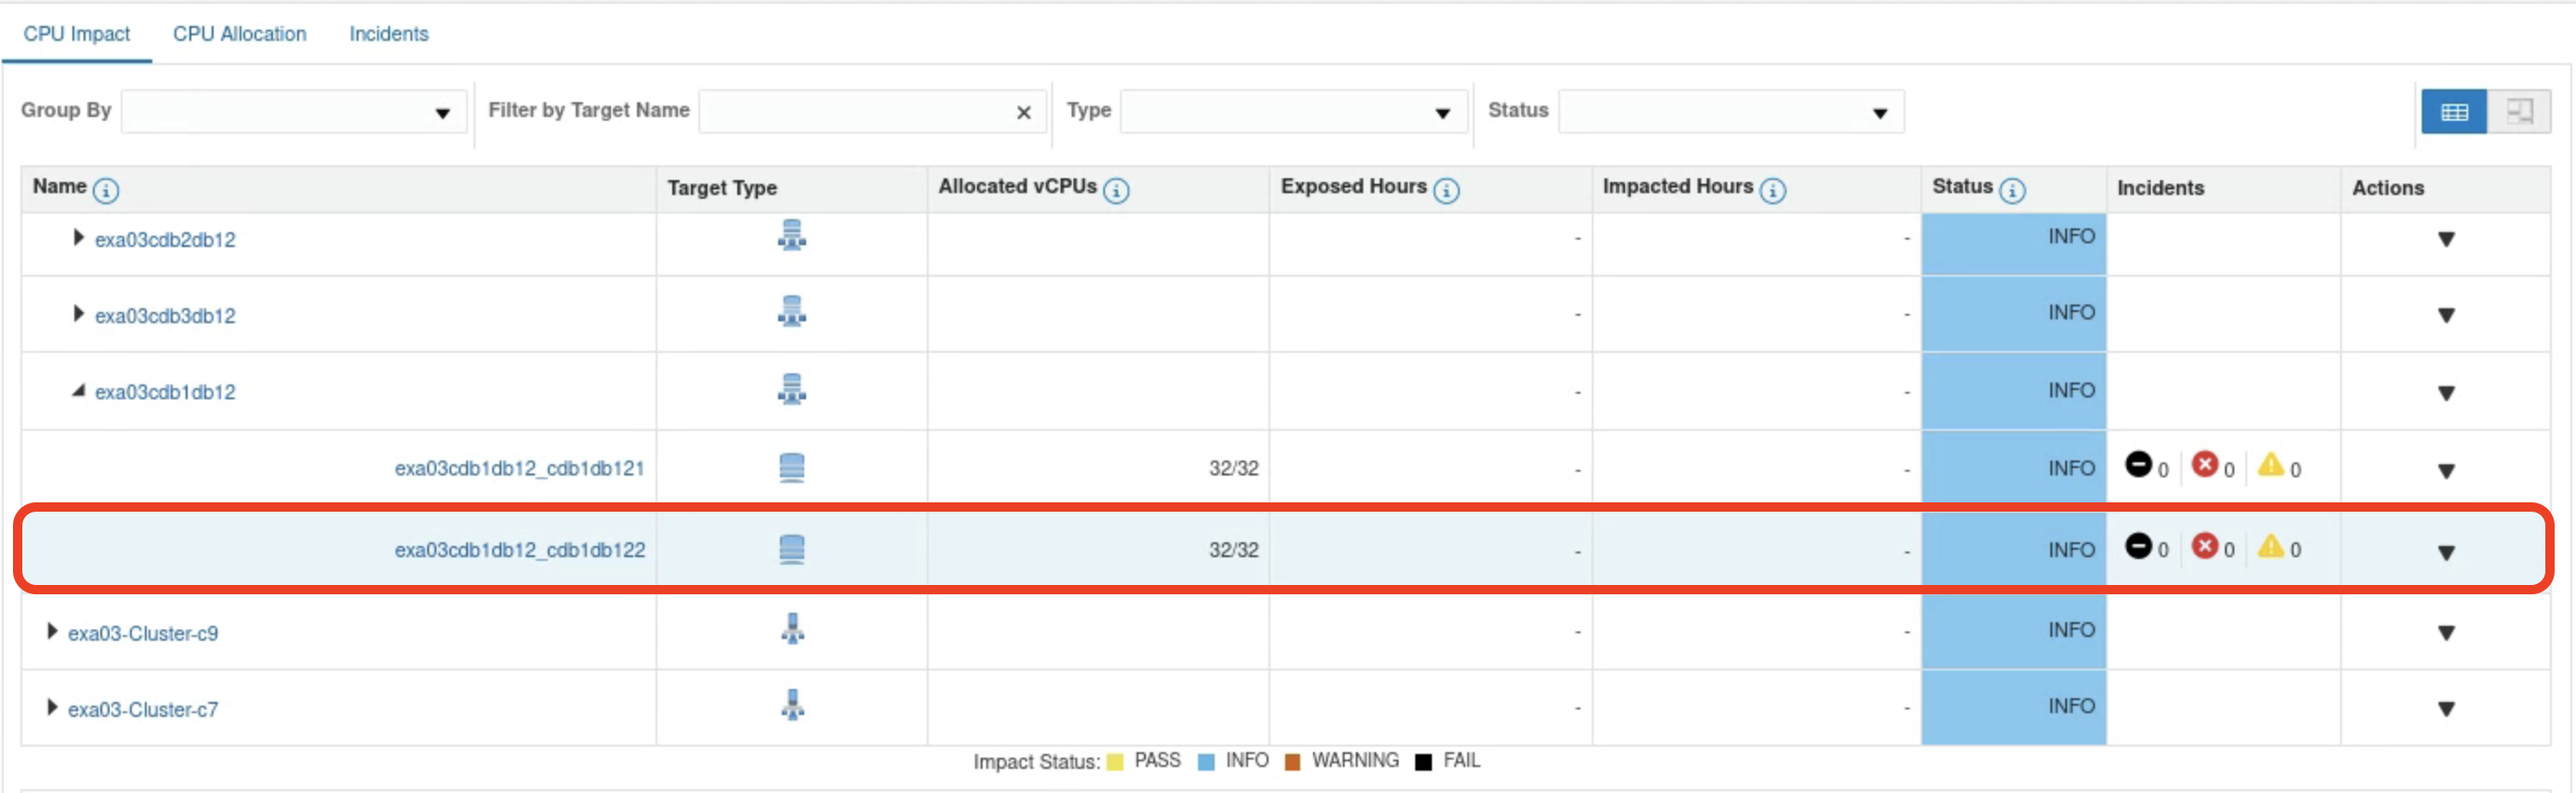
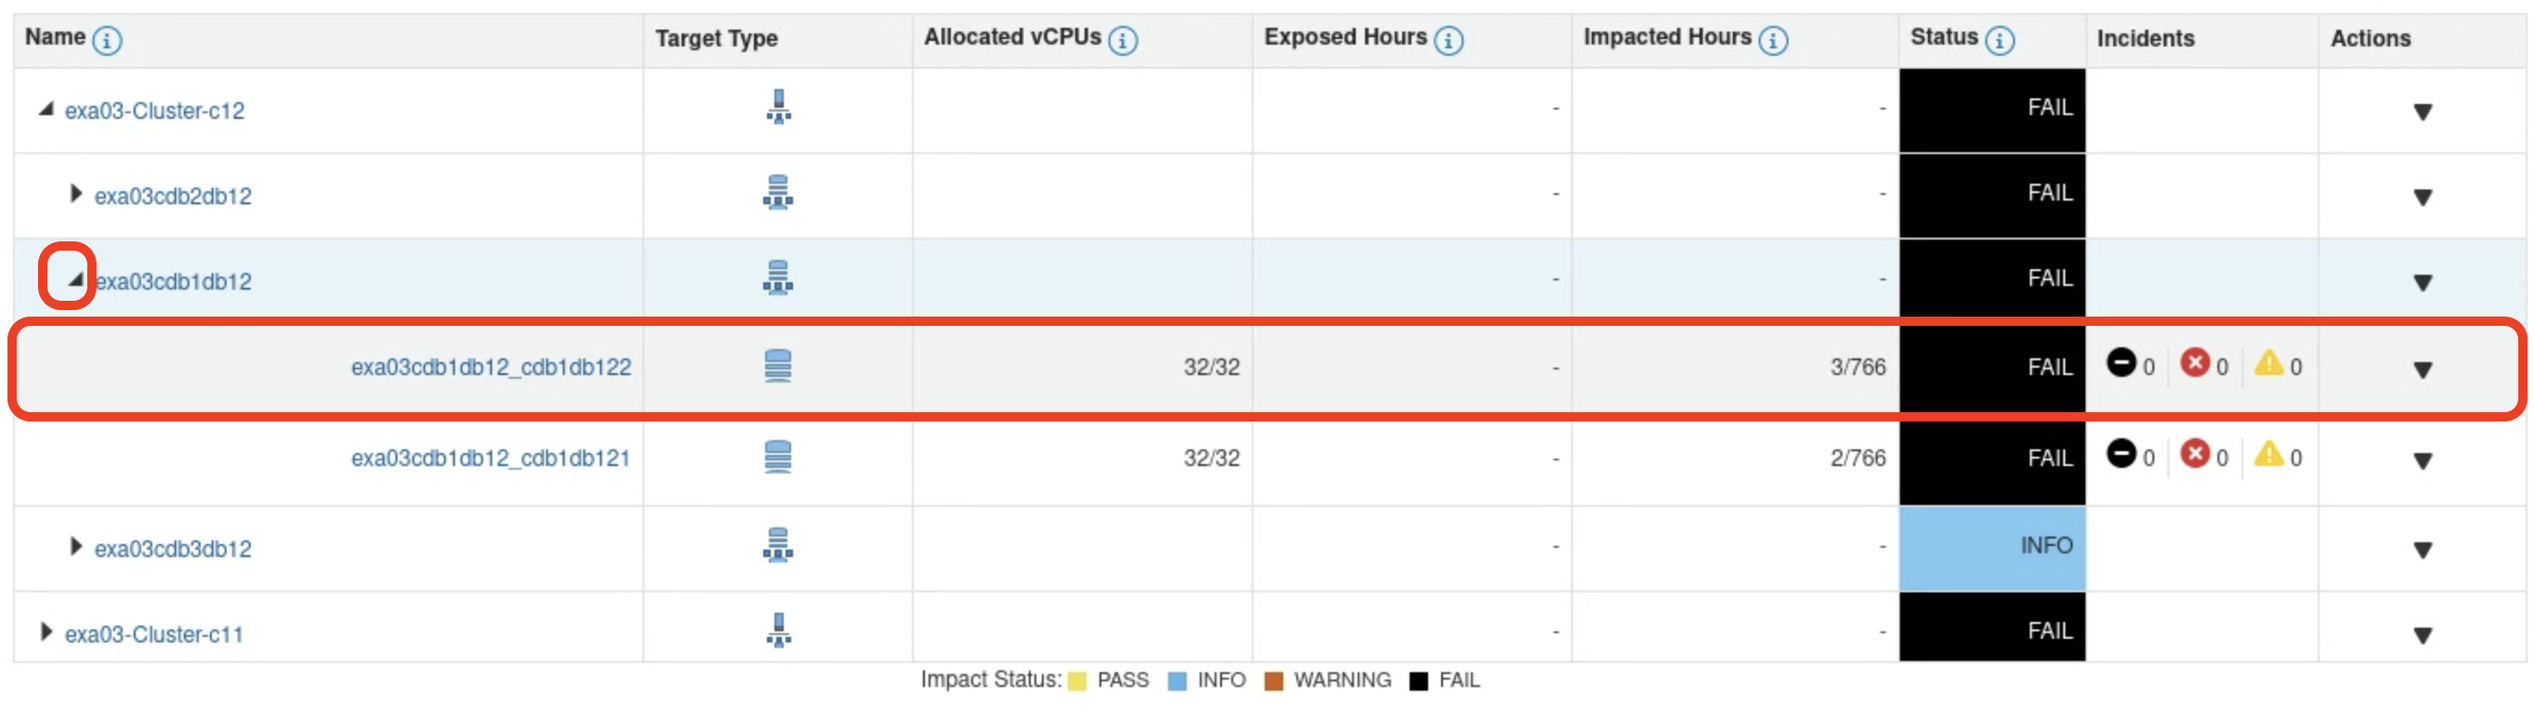
Exadata Management Pack Part10
Exadata Management Pack Part10

diff --git a/enterprise-manager/em24ai/em-exadata-mgmt/ahfmanagement/ahfmanagement.md b/enterprise-manager/em24ai/em-exadata-mgmt/ahfmanagement/ahfmanagement.md
@@ -17,9 +17,7 @@ Autonomous Health Framework (AHF) is Oracle’s diagnostic and health management
 - Explore how to manage AHF across the fleet
 - Learn how to run Exachk compliance checks across systems
 
-## Task 1: Explore AHF Management 
-
-Identify cluster databases whose performance is potentially impacted by other databases or other operating system processes.
+## Task 1: Execute AHF Command at Fleet Level
 
 1. Log into Enterprise Manager using the credentials **sysman/Cloud2025**. 
 
@@ -33,22 +31,31 @@ Identify cluster databases whose performance is potentially impacted by other da
 
     ![Enterprise Manager menu icon](images/ahfnavigation.png " ")
 
-4. Explore **Engineered Systems Tab**
+    Opens a new tab with AHF Administration page. 
 
-   Engineered Systems tab presents an overview that can be used to determine whether AHF is configured on Engineered System targets according to Oracle-recommended standards.
+4. Explore **Engineered Systems Tab** in the AHF Administration page. 
 
-   - **Total Engineered Systems** – Number of monitored systems, with breakdown of management pack enabled/disabled.
-   - **AHF Upgrade Status** – Current upgrade status across all systems.
-   - **AHF Service Status** – Enablement status of TFA and Exachk services.
-   - **AHF Configurations** – Count of systems with auto-upgrade and autorun turned on or off.
+    Engineered Systems tab presents an overview that can be used to determine whether AHF is configured on Engineered System targets according to Oracle-recommended standards.
+
+    - **Total Engineered Systems** – Number of monitored systems, with breakdown of management pack enabled/disabled.
+    - **AHF Upgrade Status** – Current upgrade status across all systems.
+    - **AHF Service Status** – Enablement status of TFA and Exachk services.
+    - **AHF Configurations** – Count of systems with auto-upgrade and autorun turned on or off.
 
     ![AHF Overview](images/ahfoverview.png " ")
 
-    Expand the **DB Machine exa03.rsthybrid.oracle.com** and check the status of AHF, AHF version, Exachk and TFA service status for its virtual nodes.
+    Expand the **DB Machine exa03.rsthybrid.oracle.com** and check the status of AHF, AHF version, Exachk and TFA service status for its nodes.
 
     ![Expand the view](images/expandview.png " ")
 
-5. Select the **DB Machine exa03.rsthybrid.oracle.com** and click on **Actions**
+5. Now select a cluster node to **execute AHF Commands**
+
+    **DB Machine exa03.rsthybrid.oracle.com** contains a total of 12 clusters and is a shared environment. Please identify the cluster assigned to you during this hands-on session and use it to execute the AHF command.
+
+    Here we are showing the flow using the cluster **ex03-Cluster-c6**
+
+    Select the cluster **ex03-Cluster-c6** & click on **Actions**
+    ![Select the cluster](images/actionsbutton.png " ")
 
      Enterprise Manager provides the below actions to manage AHF. 
     - Upgrade AHF 
@@ -57,9 +64,47 @@ Identify cluster databases whose performance is potentially impacted by other da
     - Schedule Exachk Autorun
     - Enable AHF Metrics
 
-    ![Supported actions](images/actions.png " ")
+    ![Check actions available](images/actions.png " ")
 
-6. Click on **AHF Management Jobs** tab
+6. Click on **Execute AHF Commands**
+
+    ![Execute AHF](images/executeahf.png " ")
+
+7. Select command **ahfctl** and **Other**
+
+    Enterprise Manager allows to run these command types
+    - ahfctl : command-line interface to manage AHF
+    - exachk : configuration and best-practice validation tool for Engineered Systems
+    - tfctl  : automates collection and analysis of diagnostic logs & trace files
+
+    ![Execute AHF](images/ahfctlcommand.png " ")
+
+8. Copy the **ahfctl command** provided and paste it in **Command to Execute** field
+
+    ```
+    <copy>
+    ahfctl statusahf -tfa -json
+    </copy>
+    ```
+
+    ![Execute AHF command](images/ahfctlexecute.png " ")
+
+9. Select the named credential **EXA\_HOST\_ROOT** and click **OK**
+
+    ![Open Credential Selector](images/credselector.png " ")
+    ![Select the named credential](images/credselected.png " ")
+    ![Selected the named credential](images/credselectedok.png " ")
+
+
+10. Click **Submit** to submit the command execution procedure
+    ![Click on Submit](images/submit.png " ")
+
+11. Copy the **Job Id** & Click on **Close** 
+    ![Job submitted](images/jobsubmitted.png " ")
+
+## Task 2: Analyze AHF Command Execution Job Status
+
+1. Click on **AHF Management Jobs** tab
 
     AHF Management Jobs provides a summary of all the Oracle Enterprise Manager AHF management jobs run across all Engineered System hosts.
 
@@ -67,6 +112,46 @@ Identify cluster databases whose performance is potentially impacted by other da
     - Table view provides very detailed view of each job that have been run
 
     ![Job Status](images/ahfjobs.png " ")
+
+2. Filter the jobs based on the job id
+
+    Click on **filter** icon
+
+    ![Job filters](images/jobfilters.png " ")
+
+    Paste the **Job ID** copied from Task 1 in the field of Job ID.
+
+    ![Job ID Filter](images/jobidfilter.png " ")
+
+    Scroll down & click on **Apply**
+
+    ![Apply Job filter](images/filterapply.png " ")
+
+    Shows jobs that matches the Job ID provided.
+
+    ![Show filtered data](images/filteredjobs.png " ")
+
+3. Click on the job that is filtered using the job id to view the job submitted to execute the **AHF Command**
+
+    ![Click on Job Id](images/clickonjobid.png " ")
+
+    A procedure activity opens in a new tab.
+
+4. Click on the **Expand All**  to view all the steps performed in the job execution
+
+    ![Expand all steps](images/expandall.png " ")
+
+5. Select **Summary** to review the job execution summary and status
+
+    In the cluster **ex03-Cluster-c6** selected we have two nodes and the AHF command has been executed on both.
+    This feature helps running ahf commands at scale and analyzing its output within Enterprise Manager. 
+
+    ![Job Summary](images/jobsummary.png " ")
+
+6. Select **Run Command** under one of the node to review command output
+
+    ![Command Output](images/commandoutput.png " ")
+
 
 ## Learn More
 

diff --git a/enterprise-manager/em24ai/em-exadata-mgmt/dbimpactadvisor/dbimpactadvisor.md b/enterprise-manager/em24ai/em-exadata-mgmt/dbimpactadvisor/dbimpactadvisor.md
@@ -46,7 +46,7 @@ Identify cluster databases whose performance is potentially impacted by other da
 
     2. Pie charts show the summary of the number of clusters, cluster databases, database instances, and hosts
 
-        We can see that there are 12 clusters, 23 cluster databases and 46 databases instances running on 24 hosts showing statuses **PASS or INFO**
+        We can see that there are 12 clusters, 23 cluster databases and 46 databases instances running on 24 hosts showing statuses **PASS, INFO, WARNING & FAIL**
 
         - **PASS:** The cluster is not over-provisioned. No exposed or impacted hours are possible.
         - **INFO:** Database is running normally. No exposed or impacted hours were found.
@@ -64,7 +64,7 @@ Identify cluster databases whose performance is potentially impacted by other da
     ![DIV CPU Allocation](images/cpualloctab.png " ")
 
     Here we can see that there are 12 clusters: the largest cluster has 32 cores per node, while the smallest has 12 cores per node.
-    In this lab, we will be analyzing the cluster **exa03-Cluster-c12** and current status of this cluster shows as **INFO**.
+    In this lab, we will be analyzing the cluster **exa03-Cluster-c12** and current status of this cluster shows as **FAIL &  INFO**.
 
     ![CPU Allocation](images/cpuallocation.png " ")
 
@@ -72,7 +72,7 @@ Identify cluster databases whose performance is potentially impacted by other da
 
     ![Expand Cluster](images/expandcluster.png " ")
 
-3. Select the database **exa03cdb1db12** and scroll down on selection to view the CPU Usage
+3. Select the database cluster **exa03cdb1db12** and scroll down on selection to view the CPU Usage
 
     ![Select the database](images/cdb1selection.png " ")
 
@@ -82,12 +82,17 @@ Identify cluster databases whose performance is potentially impacted by other da
 
    ![CDB1 CPU Usage](images/cpuusagecdb1.png " ")
 
-4. Now, select the instance **exa03cdb1db12_cdb1db122** and scroll down on selection to view the CPU Usage for the instance
+4. Now, expand the database cluster **exa03cdb1db12**, select the instance **exa03cdb1db12_cdb1db122** and scroll down on selection to view the CPU Usage for the instance
 
     ![select database instance](images/cdb2selection.png " ")
 
-    Checkout the CPU usage for the instance instance **exa03cdb1db12_cdb1db122** which is operating within its guaranteed CPU limits of 10.67 cores. 
+    Checkout the CPU usage for the instance instance **exa03cdb1db12_cdb1db122** is utilizing CPU resources beyond the guaranteed limit of 10.67 cores.
     ![Check CPU usage of the instance](images/cpuusagecdb2.png " ")
+
+    To identify exactly the impacted hours check **Highlight Impacted Hours** and analyze graph
+
+    ![Check CPU usage for impacted hours](images/cpuusagecdb2impacted.png " ")
+
 
     In the lower graph, you can observe details about other instances running on the same cluster node, along with non-database CPU consumption. This view helps to understand how your database may be impacted by other databases and processes running on the same host.
     ![CPU Usage on the node](images/cpuusagecdb3.png " ")
@@ -106,7 +111,7 @@ Identify cluster databases whose performance is potentially impacted by other da
     ![Check stacked](images/cpuusagecdb3-stacked.png " ")
 
     We can now see the total CPU consumption in the graph and how much each instance is using. The dashed red line represents the 70% utilization level. When the total utilization goes above this threshold, it indicates that one or more databases are impacted. 
-    If a database’s CPU usage is below its guaranteed allocation, but other databases are consuming more, the database may still experience performance impact.
+    If a database’s CPU usage is above its guaranteed allocation, but other databases are consuming more, the database is experiencing performance impact.
     
     ![Result of the stacked](images/cpusagestacked.png " ")
 
@@ -119,15 +124,16 @@ Identify cluster databases whose performance is potentially impacted by other da
 
     **CPU Usage of the instance exa03cdb2db12_cdb2db122**
     ![CPU Usage of database 2](images/cpuusuage-otherinstance1.png " ")
+    ![CPU Usage of database 2](images/cpuusuage-otherinstance2.png " ")
 
     Select database instance **exa03cdb3db12_cdb3db122** as shown below
     ![Select database 3](images/cdb4selection.png " ")
 
     **CPU Usage of the instance exa03cdb3db12_cdb3db122**
     ![CPU Usage of database 3](images/cpuusuage-otherinstance2.png " ")
+    ![CPU Usage of database 3](images/cpuusuage-otherinstance22.png " ")
 
-
-    As we can see, there are times when the databases impact each other, resulting in one or more databases not receiving enough CPU resources.
+    As we can see, two databases are operating at higher than their guaranteed CPU limit and one database is under the guaranteed limit. Two databases are impacted and are experiencing noisy neighbor condition. 
     
     There are two ways to address the issue of **Noisy Neighbor**:
     - Increase the number of CPUs
